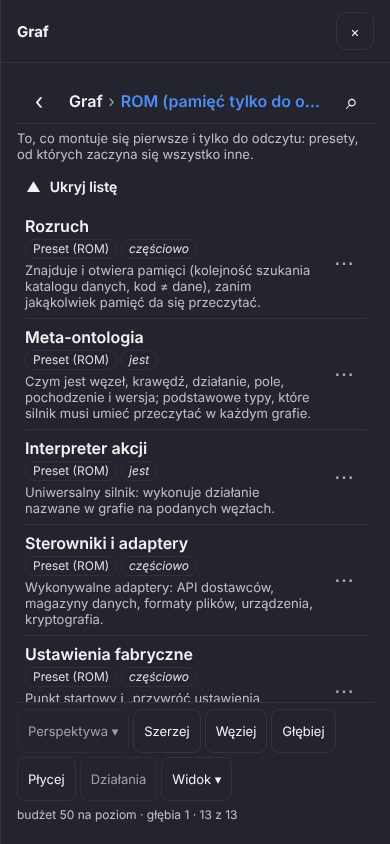
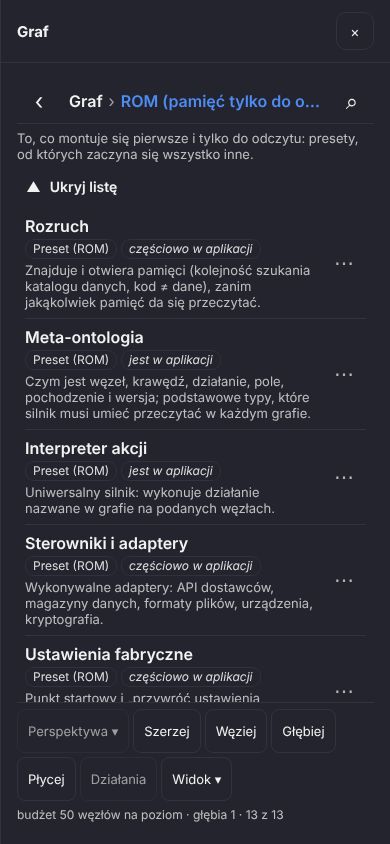
M1-W0 P7 (continuation): acceptance run green and the chips say what they are
Acceptance run on the real server, 390x844 touch: npm run build, all 56
test:* scripts of package.json in sequence and npm run e2e (run.mjs) —
green. test:product-integration first stopped on onboarding-host.mjs's own
rule "Refusing to overwrite prior evidence" (a results file of 2026-10-16
in the default directory next to the repository; 21/21 groups passed);
with ONBOARDING_HOST_EVIDENCE_DIR in a scratch directory the whole script
passes. The 13 tracked e2e screenshots a run regenerates were restored.

After looking at all 12 report screenshots: the status chips of the ROM
rows said a bare "jest" / "częściowo" (is — what?) and the line under the
bar "budżet 50 na poziom"; now status.present = "jest w aplikacji",
status.partial = "częściowo w aplikacji" (presentation.graph_screen and
presentation.settings_human, pl/en) and bar.budget* = "budżet N węzłów na
poziom" (the word of the setting "Budżet węzłów na poziom"). Words only,
in conversation_view.pack; conversation-view.json + builtin.inc
regenerated (both --check clean), dev kernel rebuilt incrementally (one
TU), the five navigator screenshots retaken; the four extra shots the m1
suites write to M1_SHOTS_DIR are not in the report (limit 8-12) and were
removed. Rerun green: navigator-state, settings-human, role-card,
p25-views, graph-entry-browser, m1-navigator 11/11, m1-settings 9/9.

Report: the budget line explained, the run facts, the chip fix; TESTIDS
[…]

diff --git a/docs/reports/INDEX.md b/docs/reports/INDEX.md
@@ -1535,8 +1535,8 @@ budowy cmake nie uruchamiano (dysk zajęty przez bramkę gdzie indziej).
 ### S1 / M1-W0 (paczka P7: e2e Ustawień, zrzuty, raport Bramy 0) — `m1-settings-native.mjs`, 12 zrzutów 390×844 z prawdziwych ekranów, `M1_CHECKPOINT_0.md`, blok `gate0` dla S2 (2026-10-21, branch `claude/m1-w0`)
 
 - Co jest: `loom/web/e2e/m1-settings-native.mjs` (`test:m1-settings`, 9 kroków na prawdziwym `loom-server`, 390×844 dotyk): menu ⋮ = wpisy `layouts.json` (bez `when`) w kolejności, brak `memory`/`knowledge`, każdy wiersz ≥ 44 px; ⋮ › Ustawienia: 8 grup w kolejności `settings.resolved`, etykiety, `data-fields` = liczba pól grupy, `data-yours` = pola z wartością na poziomie osoby (nie preset, nie `same_as_preset`), suma = `counts.fields` jądra = `fields + profile_values` z `settings_fields.pack` (bez literału); Rozmowa › Temperatura (etykieta, `value_human`, chip jądra, `why`, szczegóły z tytułami `flows_reading` i regułą edycji); Pokaż tylko zmienione (`data-shown` = Twoje grupy); pole `status: planned` z chipem i zdaniem `effect`; Modele › Role = `roles.resolved` w kolejności (etykieta, klasa, model słowami); karta Analizy w tle po `settings.set semantic_model` (bez modelu jądro nie daje `flow`/`flow_by_class` — test sprawdza, że wtedy `flow` jest `null`): każdy `role-chain-meaning-<n>` = `meaning` jądra słowo w słowo, `decides` jak w danych, `data-read` = `chain_status`, powód klasy, `role-class-<klasa>` = `flow_by_class` w kolejności z zaznaczoną klasą, chip `calibration`, `role-readers data-count` = `flows_reading + flows_reading_setting` i każdy `role-reader-<id>`; Wstecz: karta → grupa → panel → `false`; Silnik › Wszystkie pola = `settings-panel` z `cfg-*`. W każdym kroku `scrollWidth ≤ 390`, przyciski ≥ 44 px (dawny ekran pod `shum-legacy` wyłączony — 35–40 px, nieruszany), brak id-ów słów. Oba pakiety m1 przyjmują `M1_SHOTS_DIR` (zrzuty do raportu) i robią zrzut **po końcu animacji** (`document.getAnimations()`), bo zrzut menu ⋮ łapał `shell-fade` w połowie (menu półprzezroczyste nad kartą klucza — to nie był błąd z-index).
-- Poprawka po obejrzeniu zrzutów: `loom/web/src/shell/Disclosure.tsx` przewijał się do siebie przy **pierwszym** renderze (efekt `open` na mount), więc Graf otwierał się z ostatnim wierszem na górze i mapą (preset `navigator_layout = both`); teraz przewija tylko po przełączeniu. Zrzuty kart przewinięte do `card-label` (karta od tytułu), dodany zrzut korzenia z listą od góry.
+- Poprawka po obejrzeniu zrzutów: `loom/web/src/shell/Disclosure.tsx` przewijał się do siebie przy **pierwszym** renderze (efekt `open` na mount), więc Graf otwierał się z ostatnim wierszem na górze i mapą (preset `navigator_layout = both`); teraz przewija tylko po przełączeniu. Zrzuty kart przewinięte do `card-label` (karta od tytułu), dodany zrzut korzenia z listą od góry. Druga poprawka (kontynuacja P7, po obejrzeniu wszystkich 12 zrzutów): chipy stanu wierszy ROM mówiły gołe „jest” / „częściowo” (jest — co?), linia pod paskiem „budżet 50 na poziom” — teraz `status.present` = „jest w aplikacji”, `status.partial` = „częściowo w aplikacji” (w `presentation.graph_screen` i `presentation.settings_human`, pl/en) i `bar.budget*` = „budżet {{limit}} węzłów na poziom” (słowo z nazwy ustawienia „Budżet węzłów na poziom”); tylko słowa w `conversation_view.pack`, wygenerowane ponownie `conversation-view.json` + `builtin.inc` (`gen_onboarding_pack.py --check` i `gen_runtime_profiles.py --check` czyste, jądro dev przebudowane przyrostowo — jedna jednostka, `store.cpp`), zrzuty nawigatora zrobione ponownie.
 - Raport: `docs/reports/M1_CHECKPOINT_0.md` (po polsku, słowami właściciela: 12 kroków „co możesz dotknąć”, „czego NIE ma i dlaczego”, co sprawdzają testy) + 12 PNG w `docs/reports/M1_CHECKPOINT_0/` (widok 390×844, każdy < 110 KB; zrzuty z przeglądarki, **nie z emulatora** — to M1-A0/S2). `docs/reports/M1_W0_TESTIDS.md`: blok `gate0` (5 kroków kontraktu S2: ROM 13 chipów, menu bez Pamięci/Wiedzy, 8 grup + wzorzec liczników, karta roli z łańcuchem i czytelnikami, Wstecz do pytania o wyjście z `reset: false`) + tabela testid-ów powłoki (P1).
-- Testy uruchomione (fakty): `test:m1-settings` 9/9, `test:m1-navigator` 11/11 (dwa razy po poprawce Disclosure), `test:shell` zielony, `npm run build` czysty; pełny zestaw web i istniejące e2e — patrz wpis poniżej po przebiegu końcowym.
-- Decyzje (techniczne, wg R1–R53) i jak cofnąć: (a) **Zwijany blok nie przewija się przy pierwszym renderze** (tylko po dotknięciu) — ekran otwiera się od góry. Cofnięcie: usunąć `seen` w `Disclosure.tsx`. (b) **Karta roli w e2e po ustawieniu modelu** (`settings.set semantic_model`, jak w `test:role-card`), bo bez modelu jądro nie liczy przepływów per klasa; przypadek bez modelu sprawdzony tylko na API (`flow: null`). Cofnięcie: usunąć wywołanie `settings.set` i asercje `flow_by_class`. (c) **12 zrzutów, nie 15**: pominięte duplikat korzenia, karta ROM, „Zdejmij wartość” i Wszystkie pola (opisane słowami) — limit 8–12 z briefu. Cofnięcie: skopiować z `loom/web/e2e/screenshots/` po przebiegu. (d) **`gate0` nie sprawdza „braku Trybu ratunkowego”**: to pozycja ROM, nie ekran; w webie nie ma takiego ekranu. Cofnięcie: dopisać oczekiwanie, gdy powłoka dostanie testid takiego ekranu. (e) **Zrzuty z przeglądarki, nie z emulatora** — emulator to M1-A0 (S2); raport mówi to wprost.
+- Testy uruchomione (fakty): `test:m1-settings` 9/9, `test:m1-navigator` 11/11 (dwa razy po poprawce Disclosure), `test:shell` zielony, `npm run build` czysty. Przebieg końcowy (kontynuacja P7, 2026-10-21): `npm run build` + **wszystkie 56 skryptów `test:*`** po kolei + `npm run e2e` (`run.mjs`) — zielone; `test:product-integration` za pierwszym razem stanął na zasadzie `onboarding-host.mjs` „Refusing to overwrite prior evidence” (plik wyników z 2026-10-16 w `/home/user/wt/onboarding-host-verification-2026-10-05/`, katalog domyślny obok repozytorium; 21/21 grup przeszło), z `ONBOARDING_HOST_EVIDENCE_DIR` w katalogu roboczym przeszedł cały (nie ruszałem cudzego pliku dowodu). Po zmianie słów ponownie zielone: `test:navigator-state`, `test:settings-human`, `test:role-card`, `test:p25-views`, `test:graph-entry-browser`, `test:m1-navigator` 11/11, `test:m1-settings` 9/9. Przebiegi testów nadpisują śledzone zrzuty w `loom/web/e2e/screenshots/` (13 plików) — przywrócone `git checkout`, jak w P1. Pełny doctest jądra (1731 przypadków) nadal nieuruchomiony do końca (P6) — nie w zakresie tej paczki.
+- Decyzje (techniczne, wg R1–R53) i jak cofnąć: (a) **Zwijany blok nie przewija się przy pierwszym renderze** (tylko po dotknięciu) — ekran otwiera się od góry. Cofnięcie: usunąć `seen` w `Disclosure.tsx`. (b) **Karta roli w e2e po ustawieniu modelu** (`settings.set semantic_model`, jak w `test:role-card`), bo bez modelu jądro nie liczy przepływów per klasa; przypadek bez modelu sprawdzony tylko na API (`flow: null`). Cofnięcie: usunąć wywołanie `settings.set` i asercje `flow_by_class`. (c) **12 zrzutów, nie 15**: pominięte duplikat korzenia, karta ROM, „Zdejmij wartość” i Wszystkie pola (opisane słowami) — limit 8–12 z briefu. Cofnięcie: skopiować z `loom/web/e2e/screenshots/` po przebiegu. (d) **`gate0` nie sprawdza „braku Trybu ratunkowego”**: to pozycja ROM, nie ekran; w webie nie ma takiego ekranu. Cofnięcie: dopisać oczekiwanie, gdy powłoka dostanie testid takiego ekranu. (e) **Zrzuty z przeglądarki, nie z emulatora** — emulator to M1-A0 (S2); raport mówi to wprost. (f) **Słowa stanu z dopowiedzeniem** („jest w aplikacji”, „częściowo w aplikacji”, „budżet N węzłów na poziom”) zamiast gołych „jest”/„częściowo”/„budżet N na poziom” — zmiana tylko w katalogach słów, nie w kodzie. Cofnięcie: przywrócić 12 linii `status.present`/`status.partial`/`bar.budget*` w `conversation_view.pack` (commit tej kontynuacji) i wygenerować ponownie. (g) **Cztery dodatkowe zrzuty, które pakiety m1 piszą do `M1_SHOTS_DIR`** (`m1-navigator-root`, `m1-navigator-card-rom`, `m1-navigator-card-unset`, `m1-settings-all-fields`) nie są w raporcie (limit 8–12) — usunięte z katalogu raportu po przebiegu. Cofnięcie: zostawić je i dopisać do raportu.
 - Nie zrobione tu: przebieg `android-smoke` (S2); przepisanie technicznych zdań z danych („Dlaczego tak jest” roli, powody „planowane” z nazwami plików) na prostsze — praca nad danymi `ports.pack`/`presentation.*`, nie nad ekranem; chip „planowane” w wierszu roli Rozmowa może mylić (znaczy: łańcuch opisany, nieczytany) — słowo stanu z danych, do rozważenia osobne słowo „opis” w `presentation.roles`.

diff --git a/docs/architecture/M1_USTAWIENIA_JAKO_GRAF_2026-10-16.md b/docs/architecture/M1_USTAWIENIA_JAKO_GRAF_2026-10-16.md
@@ -374,4 +374,4 @@ Pliki: docs/architecture/USTAWIENIA_JAKO_GRAF_2026-10-16.md (treść tej specyfi
 - **S1, 2026-10-21 (M1-W0 paczka P3, karta węzła):** §3.2/§3.5 doprecyzowane w kodzie (`NodeCard.tsx`): karta otwiera się pod listą (nie jako osobny ekran), dotknięciem liścia albo `⋯` (długie przytrzymanie — jeszcze nie). Zapis „Dla kogo?” idzie dwiema drogami jądra: Osoba → `settings.set`, rozmowa i jednostki → `rules.set set_value`; tura mówi „planowane” (brak `context.modify`, M1-K1); Instalacja/Preset/Silnik mówią, że to warstwa plików. „Zdejmij wartość: <warstwa> (<wartość>) — wróci: <warstwa> (<wartość>)” = `rules.disable` na regule tej warstwy; **zdjęcie warstwy Ty jest „planowane” z powodem** (jądro nie ma akcji usuwającej klucz z `config.json`; `settings.set null` zapisałby null) — §3.5 zakładał „usunięcie klucza”, co wymaga akcji jądra (`settings.unset`, K1). Bramki jądra (`confirm:rules.set/disable`, `require_confirmation`) pokazuje karta z powodem i odpowiada `actions.confirm`. Rodzaj węzła słowem (`node_kinds`) odłożony — brak katalogu PL w `graph_screen`.
 - **S1, 2026-10-21 (M1-W0 paczka P4, mapa nawigatora):** §3.2 „Lista i Mapa” i „Mapa” doprecyzowane w kodzie (`NavigatorMap.tsx`, `navigator-map.ts`): lista i mapa jedna pod drugą w `Disclosure`, preset `navigator_layout = both`, `list`/`map` **zwijają** drugą część (jedno dotknięcie ją rozwija), nie usuwają; Widok ▾ zapisuje wybór przez `settings.set`. Mapa rysuje poziom `graph.navigate` przez `view-engine/project.ts` (`flat_2d`, układ `sector`: ognisko w środku, dzieci wg kolejności, głębsze dalej); kolory wg rodzaju (`kind-colors.ts`), rozmiar wg log(licznik). Dotknięcie znaku (przycisk 44 px) = etykieta w linii pod mapą **i** karta węzła; „Wejdź ›” wchodzi głębiej. Gesty: jeden palec przesuwa, uszczypnięcie powiększa (zdarzenia wskaźnika w 2D, nie tylko `scene3d`), `+ / − / ⌂`. Prostokąt wykluczenia mapy → `LoomBridge.setGestureExclusion` (§3.14), `[]` gdy zwinięta/poza ekranem. **Jeszcze nie z danych**: układ per perspektywa (`render.layout`, `coordinate_systems` perspektywy), wybór renderera z `view_renderers` (`spatial_3d`), kompozycja sektorów/side_by_side, linia podpowiedzi generowana z `interaction_bindings` (dziś `map.hint` mówi, co mapa robi) — razem z Perspektywą ▾.
 - **S1, 2026-10-21 (M1-W0 paczka P5, Ustawienia po ludzku):** §3.5 zrobione w `SettingsHuman.tsx` w tej postaci: lista ośmiu grup z `settings.resolved` (kolejność, etykieta i „po co” z danych) z licznikiem „N pól · M Twoje” → widok grupy z polami wg podgrup; „Twoje” = wartość nadana na poziomie osoby/rozmowy/jednostki, nie równa presetowi (preset zapisany w `config.json` się nie liczy); „Pokaż tylko zmienione” działa w widoku grupy; zmiana pola otwiera kartę węzła z §3.2 (nie osobny edytor); pole „planowane” pokazuje powód jądra od razu; Silnik › Wszystkie pola = dawny ekran w całości (też `Disclosure`), a prośba o wpisanie sekretu otwiera Ustawienia właśnie tam. **Jeszcze nie ma:** przełącznika „Ustawiam dla: …” (poziom wybiera się w karcie, „Dla kogo?”), zapamiętania filtra, edycji sekretu w karcie. Warsztat zachowuje stary ekran Ustawień bez zmian (§3.13).
-- **S1, 2026-10-21 (M1-W0 paczka P7, e2e + raport):** testy z końca sekcji „Testy” są w tej postaci: `e2e/m1-navigator-native.mjs` (11 kroków) i `e2e/m1-settings-native.mjs` (9 kroków), oba 390×844 z dotykiem na prawdziwym `loom-server`, `scrollWidth ≤ 390` i cele ≥ 44 px w każdym kroku (dawny ekran pod Silnik › Wszystkie pola wyłączony ze sprawdzenia — nieruszany, 35–40 px); liczby z jądra i packów, nie literały. Raport Bramy 0 ze zrzutami z przeglądarki (nie z emulatora — to M1-A0): `docs/reports/M1_CHECKPOINT_0.md` + `M1_CHECKPOINT_0/`; kroki dla sterownika Androida w bloku `gate0` w `docs/reports/M1_W0_TESTIDS.md`. Doprecyzowanie §3.14 (Disclosure): zwijany blok przewija się do siebie tylko po przełączeniu, nie przy pierwszym renderze, żeby ekran z otwartą mapą pod listą otwierał się od góry.
+- **S1, 2026-10-21 (M1-W0 paczka P7, e2e + raport):** testy z końca sekcji „Testy” są w tej postaci: `e2e/m1-navigator-native.mjs` (11 kroków) i `e2e/m1-settings-native.mjs` (9 kroków), oba 390×844 z dotykiem na prawdziwym `loom-server`, `scrollWidth ≤ 390` i cele ≥ 44 px w każdym kroku (dawny ekran pod Silnik › Wszystkie pola wyłączony ze sprawdzenia — nieruszany, 35–40 px); liczby z jądra i packów, nie literały. Raport Bramy 0 ze zrzutami z przeglądarki (nie z emulatora — to M1-A0): `docs/reports/M1_CHECKPOINT_0.md` + `M1_CHECKPOINT_0/`; kroki dla sterownika Androida w bloku `gate0` w `docs/reports/M1_W0_TESTIDS.md`. Doprecyzowanie §3.14 (Disclosure): zwijany blok przewija się do siebie tylko po przełączeniu, nie przy pierwszym renderze, żeby ekran z otwartą mapą pod listą otwierał się od góry. Słowa §3.2 (chip stanu wiersza i linia budżetu): `status.present` = „jest w aplikacji”, `status.partial` = „częściowo w aplikacji”, `bar.budget` = „budżet {{limit}} węzłów na poziom · głębia {{hops}}” — gołe „jest”/„częściowo”/„budżet N na poziom” nie mówiły, czego dotyczą (obejrzane na zrzutach 390×844).

diff --git a/docs/reports/M1_CHECKPOINT_0.md b/docs/reports/M1_CHECKPOINT_0.md
@@ -28,7 +28,9 @@ W wierszu: nazwa, **licznik** (ROM 13, Ty 14) albo uczciwe **„nieznane (żadne
 obszaru)”** — nigdy „0”, gdy aplikacja po prostu nie umie policzyć; **chip pochodzenia** („Preset (ROM)”); jedno zdanie
 **po co**. Na dole pasek: **Perspektywa ▾ · Szerzej · Węziej · Głębiej · Płycej · Działania · Widok ▾** (nad paskiem gestów
 Androida — `safe-area-inset-bottom`). Szerzej/Węziej podwaja/dzieli budżet wierszy na poziom (zwinięte wiersze są wymienione,
-nie ukryte), Głębiej/Płycej zmienia głębokość. Lupa w wierszu ścieżki szuka na bieżącym poziomie.
+nie ukryte), Głębiej/Płycej zmienia głębokość. Lupa w wierszu ścieżki szuka na bieżącym poziomie. Linia pod paskiem mówi, co
+widzisz: **„budżet 50 węzłów na poziom · głębia 1 · 25 z 25”** — ile wierszy mieści się na jednym poziomie (to ustawienie
+„Budżet węzłów na poziom” w Ustawienia › Interfejs), ile poziomów w głąb i ile z wszystkich wierszy jest na ekranie.
 
 ## 3. ROM — 13 pozycji po polsku, ze stanem
 
@@ -36,8 +38,8 @@ nie ukryte), Głębiej/Płycej zmienia głębokość. Lupa w wierszu ścieżki s
 
 Dotknij **ROM (pamięć tylko do odczytu)**. Ścieżka u góry: **Graf › ROM…** (dotknięcie członu cofa, **‹** cofa o jeden).
 Pod ścieżką jedno zdanie, po co jest ten obszar. 13 pozycji (Rozruch, Meta-ontologia, Interpreter akcji, Sterowniki i
-adaptery, Ustawienia fabryczne, …) — każda z chipem **Preset (ROM)** i stanem **jest / częściowo / planowane** oraz zdaniem,
-co robi. **⋯** przy wierszu albo dotknięcie liścia otwiera **kartę węzła** pod listą: warstwy, wartość, po co, „Skąd jest
+adaptery, Ustawienia fabryczne, …) — każda z chipem **Preset (ROM)** i stanem **jest w aplikacji / częściowo w aplikacji / planowane** (czy ta część
+aplikacji już działa) oraz zdaniem, co robi. **⋯** przy wierszu albo dotknięcie liścia otwiera **kartę węzła** pod listą: warstwy, wartość, po co, „Skąd jest
 wartość”, „Powiązania”, „Co możesz zrobić” (działania jądra słowami; te bez wykonawcy mają chip „planowane”).
 
 ## 4. Karta ustawienia — wartość, po co, co zmienia, skąd
@@ -97,7 +99,7 @@ Pole bez czytelnika w kodzie ma chip **planowane** i zdanie, dlaczego (z danych)
 
 Na górze grupy **Modele** stoi tabela ról z jądra (`roles.resolved`): Rozmowa, Analiza w tle, Sekretarz, Rozpoznanie
 polecenia, Obraz, Głos, Osadzenia, Mowa→tekst, Tekst ze zdjęcia, Model dla działania, Formaty plików — każda z **modelem
-słowami**, **chipem klasy** (tani / średni / frontier / brak modelu) i stanem (jest / częściowo / planowane) oraz zdaniem, co ta rola robi.
+słowami**, **chipem klasy** (tani / średni / frontier / brak modelu) i stanem (częściowo / planowane — bez chipu, gdy rola działa w całości) oraz zdaniem, co ta rola robi.
 
 ## 10. Karta roli — odpowiedź na „dlaczego jest do wyboru model do analizy, jak są różne flowy”
 
@@ -171,4 +173,12 @@ oddaje decyzję powłoce (`window.__loomBack()` zwraca `false` — tam Android p
   te testy z `M1_SHOTS_DIR=docs/reports/M1_CHECKPOINT_0`.
 - Poprawki po obejrzeniu zrzutów (P7): Graf otwierał się **przewinięty do mapy** (ostatni wiersz na górze) — zwijany blok
   przewijał się do siebie przy pierwszym rysowaniu; teraz robi to tylko po dotknięciu „Pokaż …”. Zrzut menu ⋮ łapał animację
-  w połowie (menu półprzezroczyste nad kartą klucza) — zrzuty czekają na koniec animacji.
+  w połowie (menu półprzezroczyste nad kartą klucza) — zrzuty czekają na koniec animacji. Chipy stanu w wierszach ROM mówiły
+  samo **„jest”** i **„częściowo”** (jest — co?); teraz mówią **„jest w aplikacji” / „częściowo w aplikacji”**, a linia pod
+  paskiem **„budżet 50 węzłów na poziom”** zamiast „budżet 50 na poziom” (to samo słowo, co nazwa ustawienia). Tylko słowa
+  w katalogu (`presentation.graph_screen`, `presentation.settings_human`), żaden kod ekranu nie zmieniony.
+- Przebieg końcowy (2026-10-21, po tej poprawce): `npm run build` czysty; **wszystkie 56 skryptów `test:*`** z `package.json`
+  zielone (w tym oba m1: 11/11 i 9/9, z nowymi zrzutami) i **`npm run e2e`** (`run.mjs`) zielony. Jeden skrypt,
+  `test:product-integration`, za pierwszym razem stanął nie na błędzie ekranu, lecz na swojej zasadzie „nie nadpisuję
+  wcześniejszego dowodu”: `e2e/onboarding-host.mjs` zastał plik wyników z 16 października w domyślnym katalogu obok
+  repozytorium (wszystkie 21/21 grup przeszły); z własnym katalogiem (`ONBOARDING_HOST_EVIDENCE_DIR`) cały skrypt przeszedł.

diff --git a/docs/reports/M1_W0_TESTIDS.md b/docs/reports/M1_W0_TESTIDS.md
@@ -79,7 +79,7 @@ Otwarcie: `shell-menu-toggle` → `shell-menu-graph` → panel `panel-navigator`
 | lista | `nav-rows` (`data-shown`, `data-total`), `nav-loading`, `nav-empty`, `nav-error` | lista `li` wierszy; stany |
 | wiersz | `nav-row-<adres>` (`data-has-children`), `nav-count`, `nav-chip`, `nav-evidence`, `nav-status`, `nav-row-card-<adres>` | wiersz (dotknięcie: wejście albo karta liścia), licznik, chip pochodzenia, chip dowodu, chip stanu, `⋯` (otwiera/zamyka kartę węzła, `aria-expanded`) |
 | uczciwość | `nav-collapsed`, `nav-hidden`, `nav-unknown-<źródło>` | zwinięte przez budżet, ukryte przez Ciebie, źródło bez odpowiedzi (powód) |
-| pasek | `nav-bar`, `nav-bar-perspective`, `nav-bar-wider`, `nav-bar-narrower`, `nav-bar-deeper`, `nav-bar-shallower`, `nav-bar-actions`, `nav-bar-view`, `nav-bar-planned`, `nav-budget` | pasek dolny; `planned` = linia po dotknięciu przycisku bez obsługi; `budget` = „budżet N na poziom · głębia H · pokazane z wszystkich” |
+| pasek | `nav-bar`, `nav-bar-perspective`, `nav-bar-wider`, `nav-bar-narrower`, `nav-bar-deeper`, `nav-bar-shallower`, `nav-bar-actions`, `nav-bar-view`, `nav-bar-planned`, `nav-budget` | pasek dolny; `planned` = linia po dotknięciu przycisku bez obsługi; `budget` = „budżet N węzłów na poziom · głębia H · pokazane z wszystkich” |
 
 ## Karta węzła (paczka P3, `loom/web/src/components/NodeCard.tsx`; e2e `loom/web/e2e/m1-navigator-native.mjs`, kroki karty)
 
